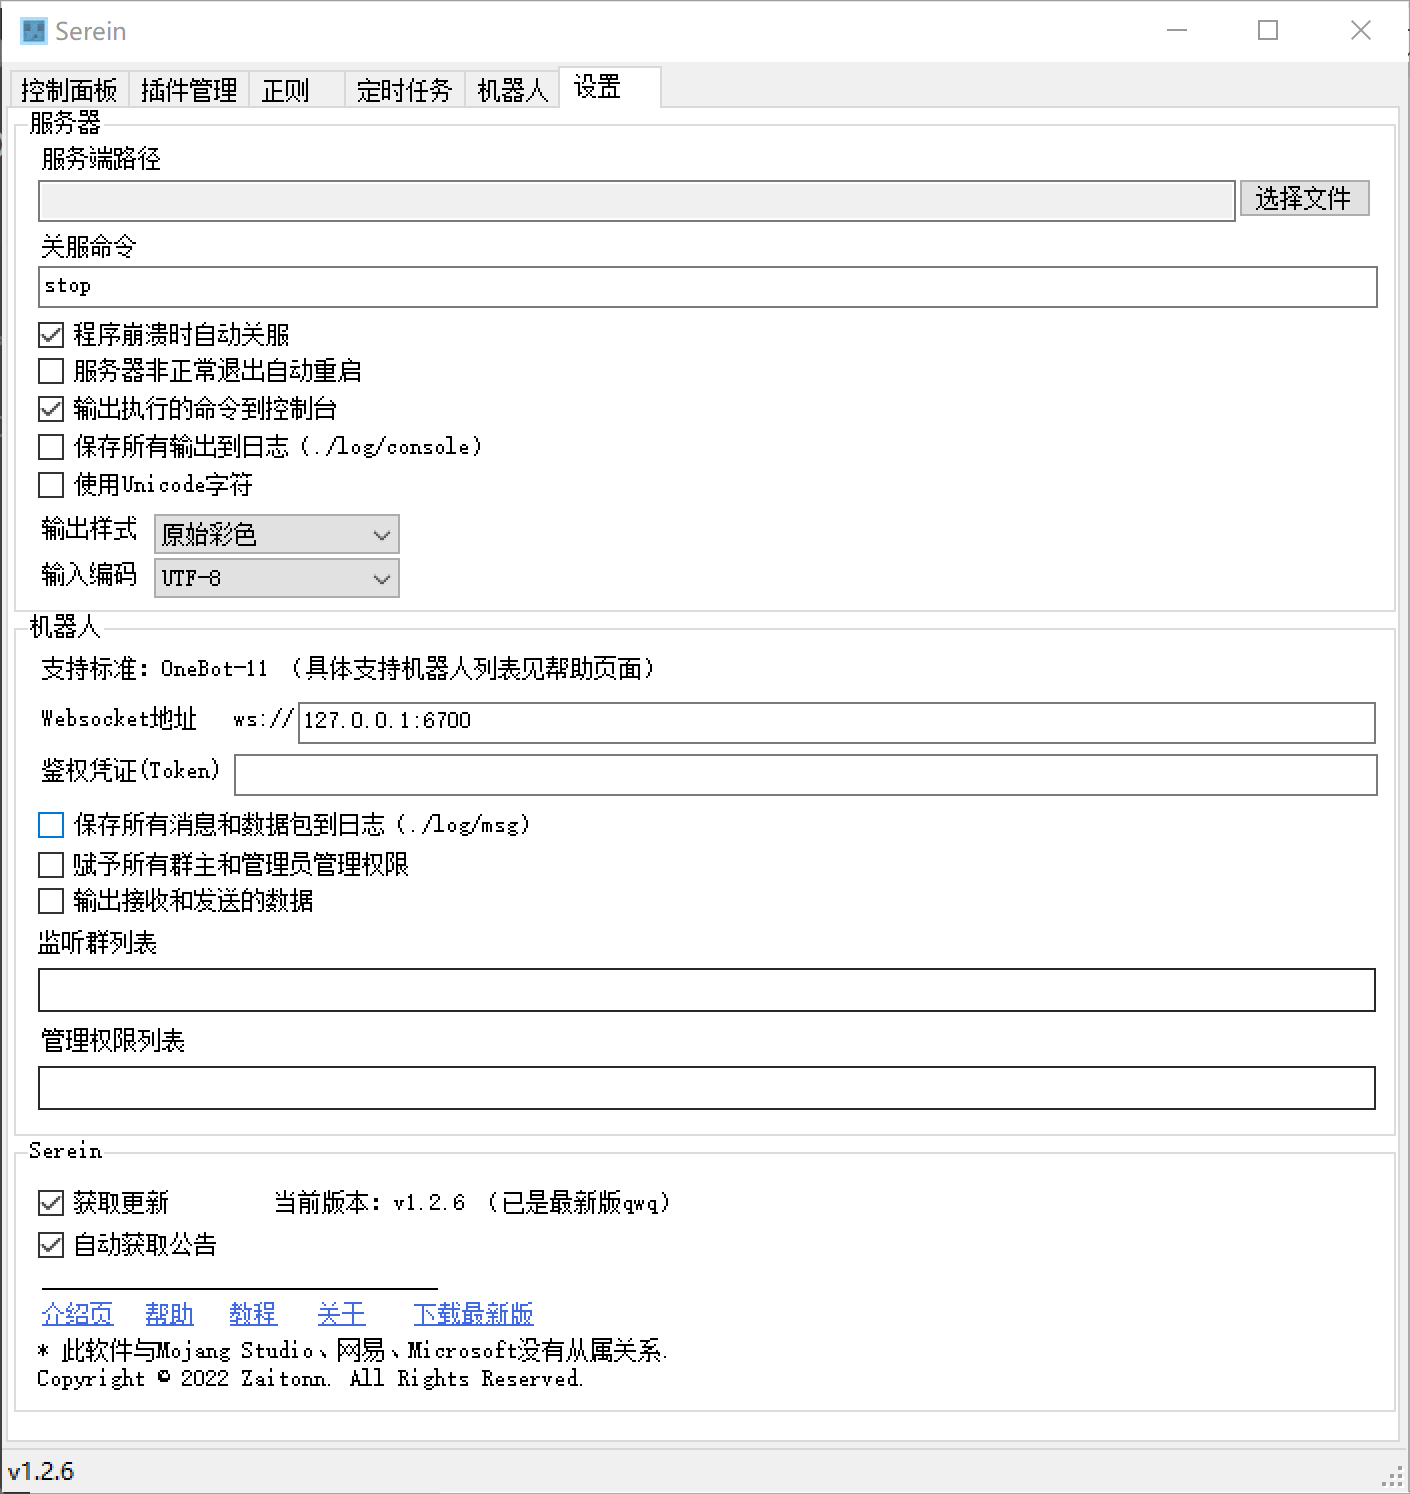
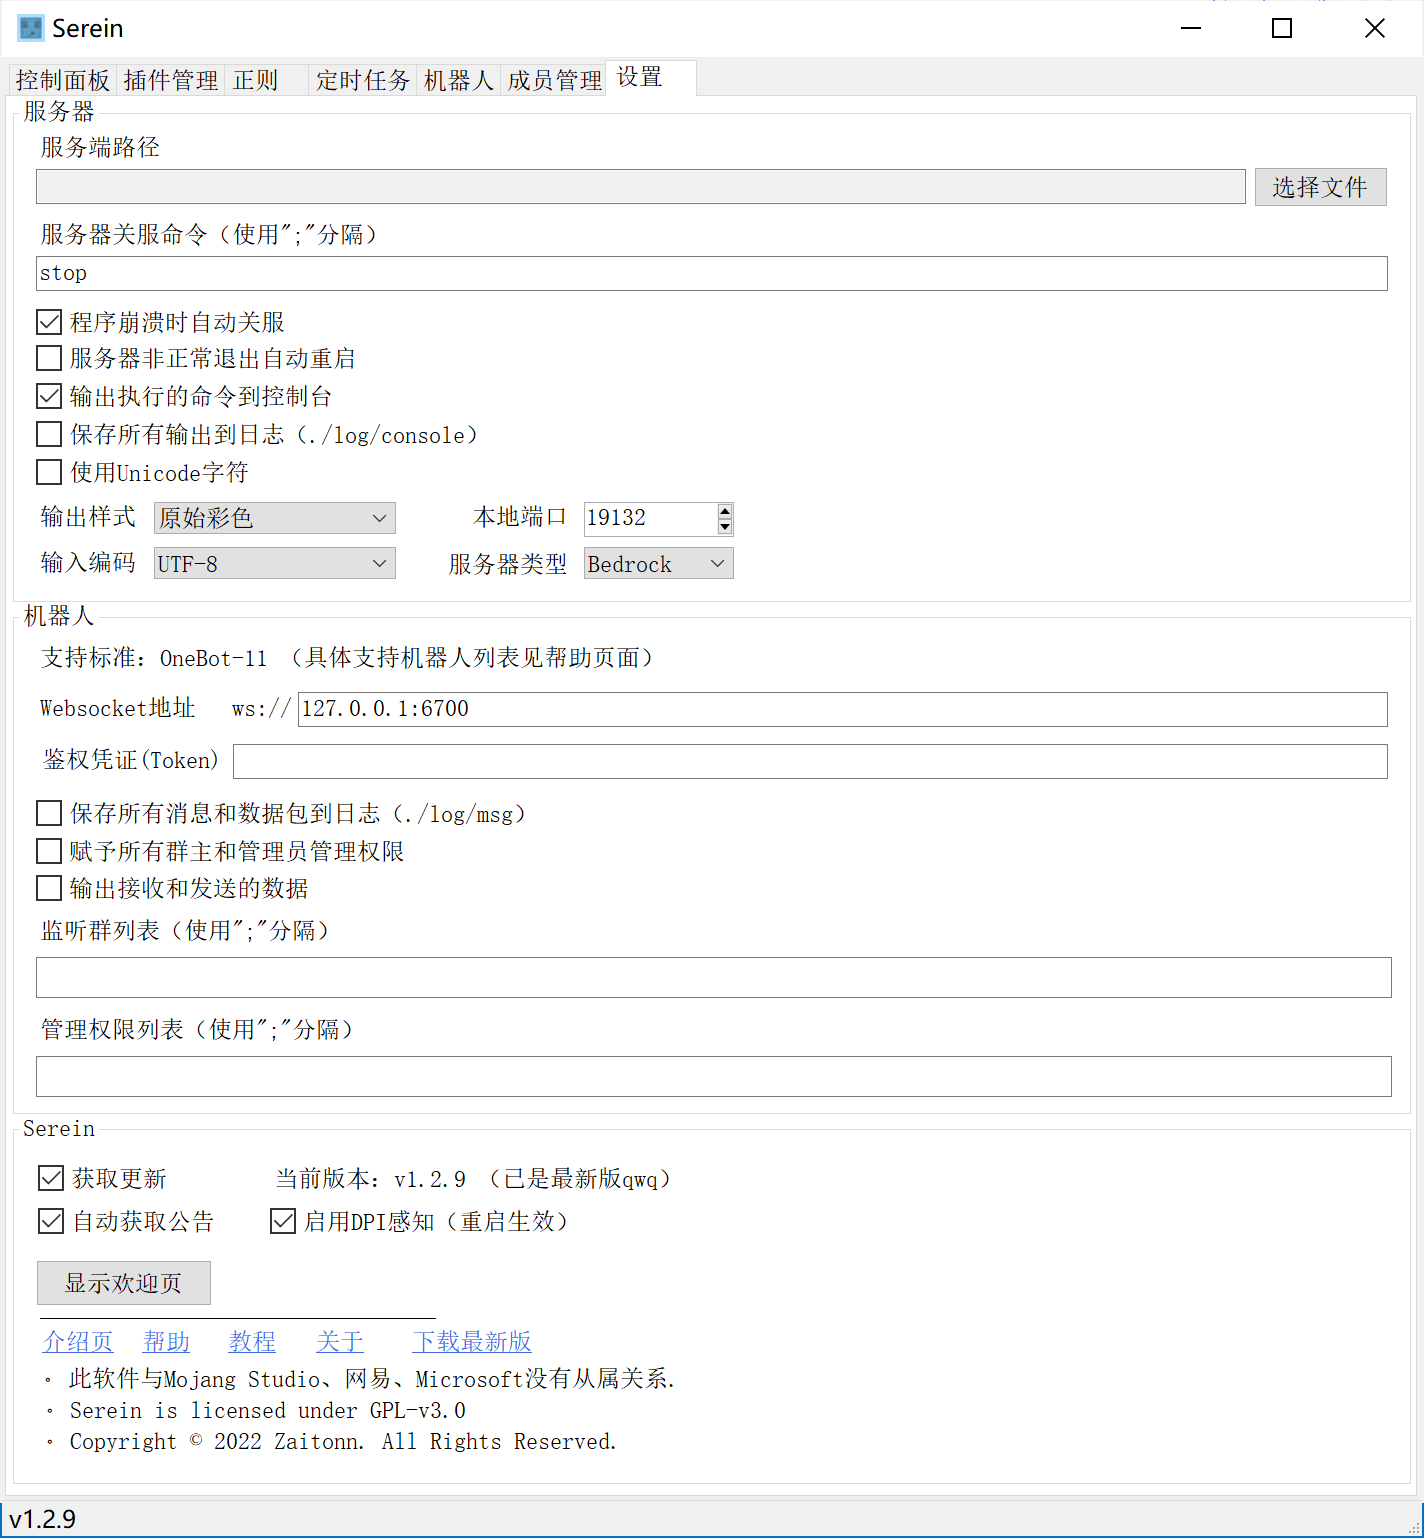
docs: 更新介绍

Changed region(s): [[0.0, 0.0, 1.0, 1.0], [0.9362, 0.0, 0.9674, 0.0308], [0.8738, 0.0, 0.905, 0.0308]]

diff --git a/docs/README.md b/docs/README.md
@@ -29,21 +29,23 @@
 ---
 
 - [🖥运行环境 Environment](#运行环境-environment)
-    - [缺少运行库？](#缺少运行库)
+  - [缺少运行库？](#缺少运行库)
 - [💖特点 Feature](#特点-feature)
+  - [超小的文件体积](#超小的文件体积)
+  - [免费咨询](#免费咨询)
   - [控制面板](#控制面板)
     - [简洁的状态信息显示](#简洁的状态信息显示)
     - [方便的一键控制按钮](#方便的一键控制按钮)
-    - [简单且可自定义的控制台](#简单且可自定义的控制台)
+    - [简单且可自定义的彩色控制台](#简单且可自定义的彩色控制台)
     - [日志系统](#日志系统)
-    - [后台运行](#后台运行)
+    - [自动后台运行](#自动后台运行)
   - [插件管理](#插件管理)
   - [正则](#正则)
   - [定时任务](#定时任务)
   - [机器人](#机器人)
   - [成员管理](#成员管理)
   - [设置](#设置)
-- [✨第三方插件/整合包 Plugin](#第三方插件整合包-plugin)
+- [✨正则/插件/整合包 Plugin](#正则插件整合包-plugin)
 - [💖发电 Donate](#发电-donate)
 - [📒关于 About](#关于-about)
 
@@ -54,44 +56,63 @@ Win7或WinServer2012以上
 
 > 更低的系统版本不保证能稳定运行，必要时务必备份数据  
 
-> x86理论可正常运行，但考虑到bds好像不能在x86下运行(？)，故还是推荐64位
+> 32位理论可正常运行`.NET Framework 4.7.2`的版本，但考虑到其他部分软件不支持，故还是推荐使用64位
 
-#### 缺少运行库？
-[下载 .NET 6.0 桌面运行时](https://dotnet.microsoft.com/download/dotnet/6.0/runtime/desktop/x64)  
-[下载 .NET Framework运行时](https://dotnet.microsoft.com/zh-cn/download/dotnet-framework/net472)
+### 缺少运行库？
+>根据下载的版本自行选择即可，并不一定两个都需要安装
+
+>Win10和WinServer2019以上应该有自带的`.NET Framework 4.7.2`运行库，可以不需要再安装
+
+[![.NET 6.0](https://img.shields.io/badge/.NET-6.0-%23512BD4?style=for-the-badge)](https://dotnet.microsoft.com/download/dotnet/6.0/runtime/desktop/x64)
+[![.NET Framework 4.7.2](https://img.shields.io/badge/.NET%20Framework-4.7.2-%23512BD4?style=for-the-badge)](https://dotnet.microsoft.com/zh-cn/download/dotnet-framework/net472)
+
 
 ## 💖特点 Feature
+
+### 超小的文件体积
+**麻雀虽小，五脏俱全**  
+极小的文件体积，囊括多种功能  
+
+截至`Serein v1.2.9`，`Serein`的**所有发行包大小均不超过1MB**  
+也就是说，不到一张~~色图~~表情包体积的软件就可以实现控制服务器等功能
+
+[![文件体积](imgs/size.png)](https://github.com/Zaitonn/Serein/releases/latest)
+
+### 免费咨询
+[加群](https://jq.qq.com/?_wv=1027&amp;k=XNZqPSPv)咨询作者或其他用户，将会尽己所能提供更好的服务
+
+
 ### 控制面板
 ![控制台](imgs/console.png)
+
 #### 简洁的状态信息显示
-- 显示有关服务器的主要信息（状态、版本、难度、存档名称、运行时长和启动进程的CPU占用率），快捷了解当前服务器状态
-- 理论上可适配所有服务器（包括BE和JE服务器），若遇无法识别可以自行修改配置文件
+- **显示有关服务器的主要信息**（状态、版本、难度、存档名称、运行时长和启动进程的CPU占用率），快捷了解当前服务器状态
+- 理论上**可适配所有服务器**（包括BE和JE服务器），若遇无法识别可以自行修改配置文件
 
 #### 方便的一键控制按钮
 - 包括大部分日常使用的操作，帮助您一键管理服务器
 
-#### 简单且可自定义的控制台
-- 使用自研的正则匹配原始输出中的彩色样式，并使用内嵌浏览器渲染输出
+#### 简单且可自定义的彩色控制台
+- 使用自研的正则处理原始输出中的彩色样式，并使用内嵌HTML渲染输出
+  - **目前仅有少数几个面板支持输出彩色日志，而Serein是其中之一！**
 - 还有`语法高亮`的显示主题可供选择！可自动用不同颜色高亮`Info`、`Error`、`Warning`、插件前缀和长数字
 - 得益于使用内嵌浏览器渲染控制台，故您可以在`./console`文件夹中自定义背景颜色、高亮颜色、高亮内容、字体大小颜色等风格
-
-  
-> 可能需要一点点HTML5、CSS3和JS的入门技巧
+  > 可能需要一点点HTML5、CSS3和JS的入门技巧
 
 #### 日志系统
 
 > 此功能需在设置中开启
 
-- 自动将控制台中的输出输出到日志文件，不用担心后台刷屏找不到想要的信息了
+自动将控制台中的输出输出到日志文件，不用担心后台刷屏找不到想要的信息了
 
-#### 后台运行
+#### 自动后台运行
 ![后台运行提示](imgs/protect.png)
 
-- 当服务器运行时关闭Serein将最小化至托盘，再也不用怕点错当场跑路
+- 当服务器运行时关闭Serein将自动最小化至托盘，再也不用怕点错当场关服跑路
 
 ### 插件管理
 ![插件管理](imgs/plugin.png)
-- 自动识别插件文件夹，以分组方式列出所有的插件
+- 自动识别插件文件夹，分组列出所有的插件
 - 一键导入插件，帮助小白服主解决导入难题
 - 快捷启用/禁用插件，快速排除问题和更新服务器
 - 直达文件夹，再也不用怕插件太多找不到插件在哪
@@ -99,27 +120,33 @@ Win7或WinServer2012以上
 ### 正则
 ![正则](imgs/regex.png)
 
-- 简单易上手的正则表达式和[命令系统](Command.md)，可以执行命令、发送消息（需要配置机器人）甚至备份存档（基于cmd，需要自行下载7z）等高级功能
+- 简单易上手的正则表达式和[命令](Command.md)，可以执行服务器指令、发送消息甚至备份存档（基于cmd，需要自行下载7z）等高级功能
+  - *你可以咨询作者获取详细方法*
 - 通过此功能还能实现自动回复，与群信息互通和状态输出等功能
-- 备注功能，再也不用担心写的是啥
-- 简单明了的配置文件，可快捷分享或导入
+- 支持备注功能，再也不用担心写的是啥
+- 简单明了的配置文件，可快捷分享或一键导入
 
 ### 定时任务
 ![定时任务](imgs/task.png)
 
-- 简单易上手的Cron表达式和[命令系统](Command.md)，可以执行命令、发送消息（需要配置机器人）甚至备份存档（基于cmd命令行，需要自行下载7z）等高级功能
+- 简单易上手的Cron表达式和[命令](Command.md)，可以执行服务器指令、发送消息甚至备份存档（基于cmd命令行，需要自行下载7z）等高级功能
+  - *你可以咨询作者获取详细方法*
 - 通过此功能还能实现定时命令、准点报时和定时备份等功能
 - 自动提示下一次执行时间，再也不用怕搞出逆天的表达式了
-- 备注功能，再也不用担心写的是啥
-- 简单明了的配置文件，可快捷分享或导入
+- 支持备注功能，再也不用担心写的是啥
+- 简单明了的配置文件，可快捷分享或一键导入
 
 ### 机器人
 ![机器人](imgs/bot.png)
 
-- 通过Websocket连接本地的机器人（需要自行配置）实现消息收发功能
+- 支持多种主流机器人，包括但不限于[`go-cqhttp`](https://github.com/Mrs4s/go-cqhttp)、[`OneBot Mirai`](https://github.com/yyuueexxiinngg/onebot-kotlin)
+- `Serein`与机器人窗口分离，方便拓展
+  >#### ⭐ Tips  
+  >你可以使用`Nonebot`、`Nonebot2`等机器人框架继续拓展实现更多功能
+- 通过Websocket一键连接机器人实现消息收发功能
 - 允许多开`Serein`实现群组服的消息互通功能
 - 显示状态和其他统计信息，帮助您了解运行状态
-- 可以直接通过扣扣控制服务器或消息互通（需要自行配置）
+- 可以直接通过QQ控制服务器或消息互通（需要自行配置）
 
 ### 成员管理
 ![成员管理](imgs/members.png)
@@ -128,22 +155,22 @@ Win7或WinServer2012以上
 
 ### 设置
 ![设置](imgs/setting.png)
-> 设置内容因版本不同而有所差别
+> 设置内容因版本不同而有所差别，图片仅供参考
 
-- 提供尽可能的的设置，满足不同人的使用需求
-- 将鼠标指针放在不同设置上方，可查看关于这一项的详细提示
+- 提供尽可能多的设置，满足不同服主的使用需求
+- 将鼠标指针放在不同设置上方，可查看关于这一项的详细提示，不用担心不明白设置的意思
 
-## ✨第三方插件/整合包 Plugin
-> **选配选配选配选配选配选配选配选配选配选配选配**  
+## ✨正则/插件/整合包 Plugin
 > 你需要自行判断其安全性和可用性，使用时出现问题与`Serein`无关
 
+- 👉[**正则示例文件（官方）**](Regex_Demo.html)👈
 - [Serein机器人整合包](https://www.minebbs.com/threads/serein.12192/)
 - [Serein - 新的机器人内置常用正则](https://www.minebbs.com/resources/serein.4204/)
 - [PSerein - 机器人辅助插件](https://www.minebbs.com/resources/pserein.4211/)
 
 
 ## 💖发电 Donate
->如果觉得这个软件对你很有帮助的话可以稍微鼓励一下  
+>如果觉得这个软件对你很有帮助的话可以稍微鼓励一下作者  
 我会很感谢你的(*￣3￣)╭❤
 
 [![爱发电](imgs/afdian.png)](https://afdian.net/@Zaiton)
